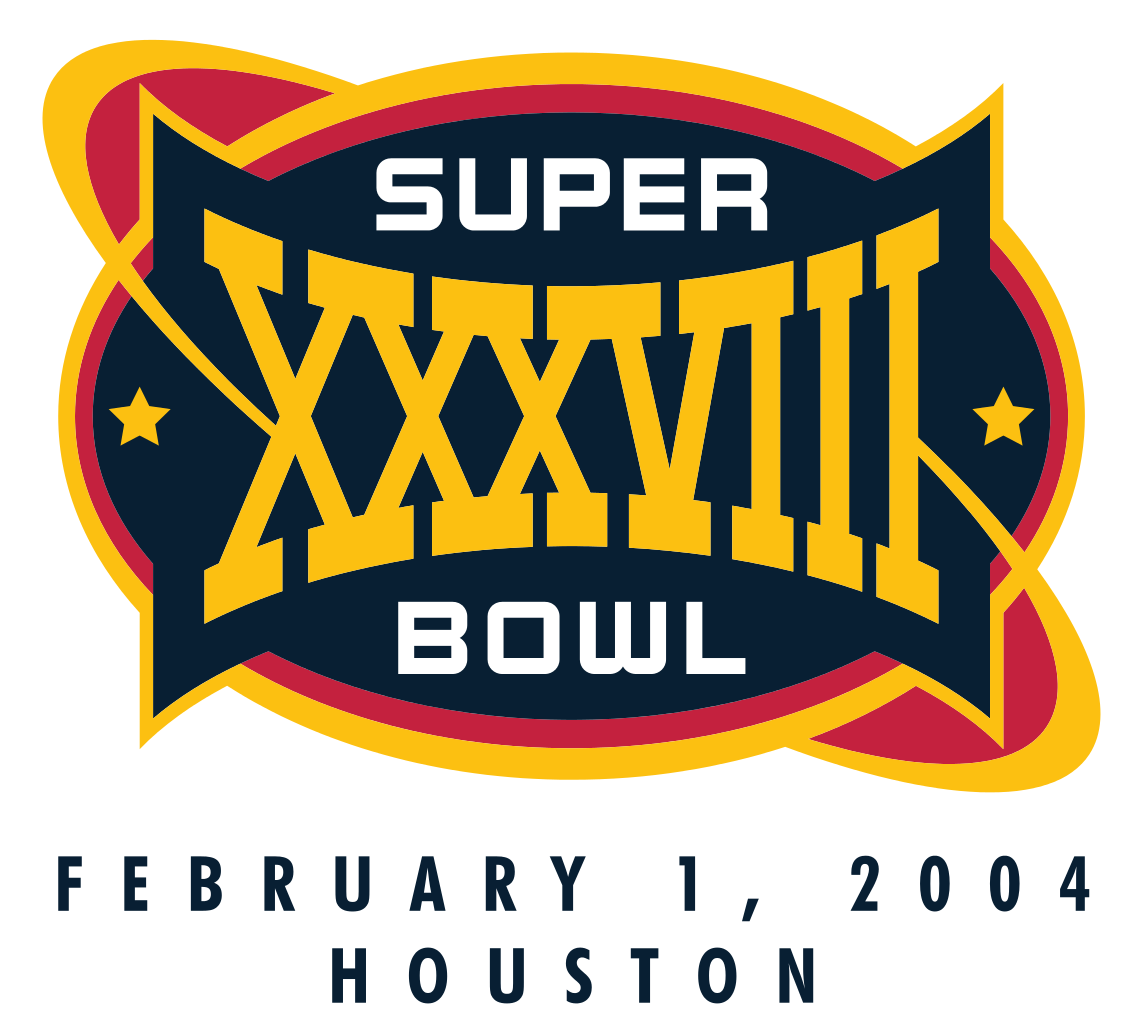
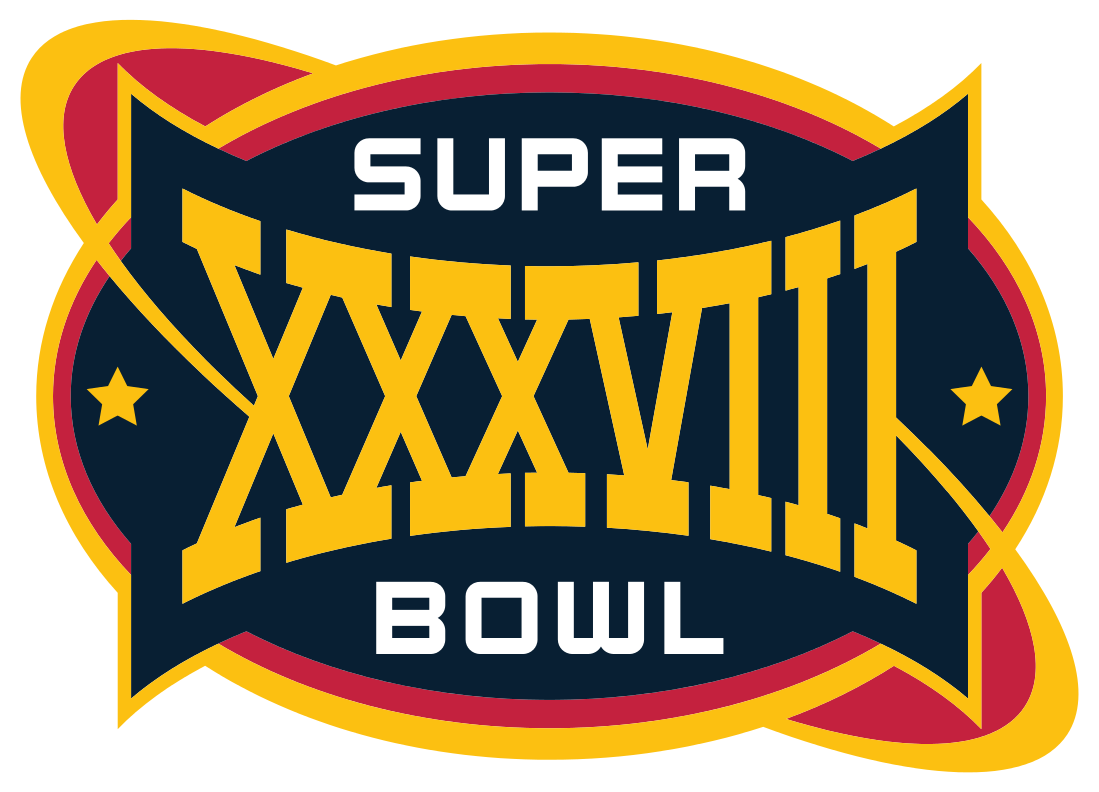
Last updates to WCRI

diff --git a/2016/wordcamp-rhode-island/index.html b/2016/wordcamp-rhode-island/index.html
@@ -64,9 +64,14 @@
 						<h4 class="fragment"><em>@jaredNova</em></h4>
 						<aside class="notes">I am jared novack and jarednova on twitter, github and pretty much everywhere else
 						</aside>
+					</section> 
+
+					<section>
+						<img src="images/2016/flash.png" class="naked" />
 					</section>
+
 					<section data-transition="linear">
-						<img src="../../media/2014-philly-timber/upstatement-logo.png" class="naked"/>
+						<img src="images/2016/upstatement.svg" class="naked"/>
 						<aside class="notes">I own a company called Upstatement...</aside>
 					</section>
 					<section data-transition="linear">
@@ -86,15 +91,15 @@
 				</section>
 
 				<section>
-					Town Clocks
+					<img src="images/2016/clock.jpg" />
 				</section>
 
 				<section>
-					 Movie Copyrights!
+					<img src="images/2016/copyright.png" />
 				</section>
 
 				<section>
-					Super bowls
+					<img src="images/2016/superbowl.png" class="naked" />
 				</section>
 
 				<section class="split">
@@ -103,14 +108,6 @@
 					</div>
 					<div>
 						<h2>I</h2>
-					</div>
-				</section>
-				<section class="split">
-					<div>
-						<h2>12</h2>
-					</div>
-					<div class="fragment">
-						<h2>XII</h2>
 					</div>
 				</section>
 				<section class="split">
@@ -151,7 +148,7 @@
 
 				<section>
 					<div style="position: relative; top:-100px;">
-						<a href="http://theundefeated.com" target="blank"><img src="images/2016/undefeated.png" style="display: block;" class="naked"/></a>
+						<a href="http://theundefeated.com/features/smithsonians-new-african-american-museum-shows-the-many-sides-of-black-space/" target="blank"><img src="images/2016/undefeated.png" style="display: block;" class="naked"/></a>
 						<h4>The Undefeated</h4>
 						<h3 class="fragment">MCMLXXXIII</h3>
 					</div>
@@ -333,7 +330,7 @@ string += '</ul></div>';
 						<li>Laravel</li>
 						<li>Symfony</li>
 					</ul>
-					<aside class="notes">Notice anything missing from that list? Let's go see what's going on in the WordPress template world in 2014</aside>
+					<aside class="notes">Notice anything missing from that list? Let's go see what's going on in the WordPress template world in 2016</aside>
 				</section>
 				
 				<section>

diff --git a/2016/wordcamp-rhode-island/css/theme/source/timber.css b/2016/wordcamp-rhode-island/css/theme/source/timber.css
@@ -196,6 +196,7 @@ body {
   opacity: 0.3; }
   .reveal .banner h4 {
     font-size: 14px;
+    color: white;
     text-transform: uppercase; }
 
 /*# sourceMappingURL=timber.css.map */

diff --git a/2016/wordcamp-rhode-island/css/theme/source/timber.scss b/2016/wordcamp-rhode-island/css/theme/source/timber.scss
@@ -140,6 +140,7 @@ $heading1TextShadow : none;
 	opacity:0.3;
 	h4 {
 		font-size:14px;
+		color:white;
 		text-transform: uppercase;
 	}
 
